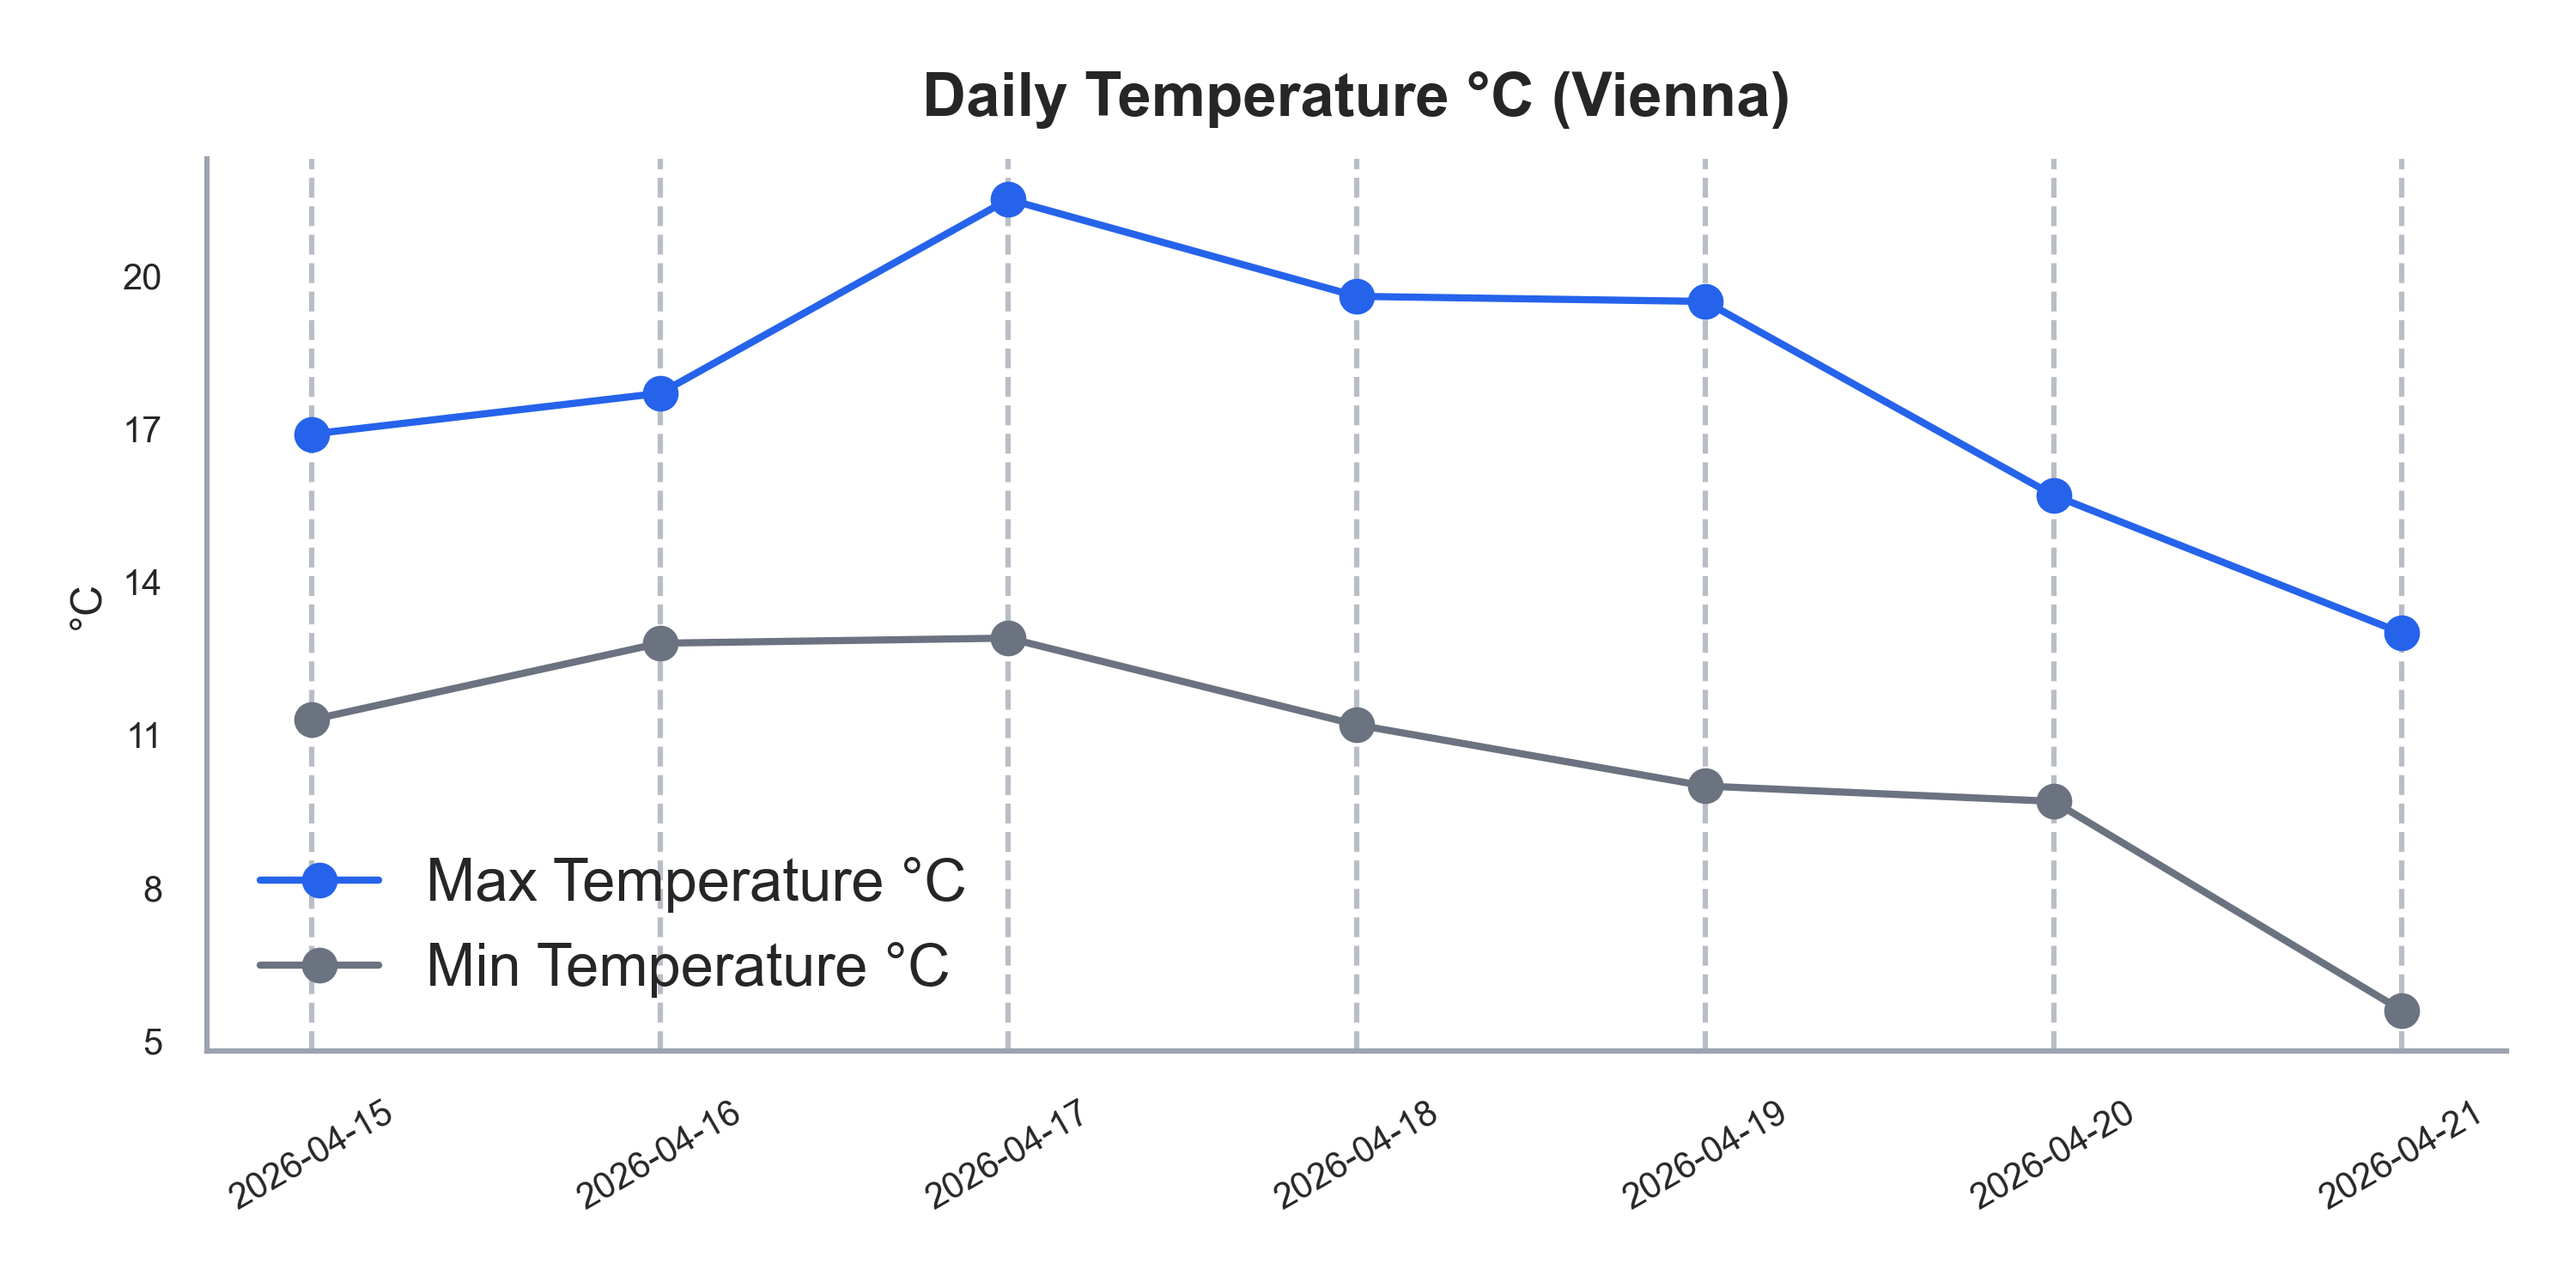
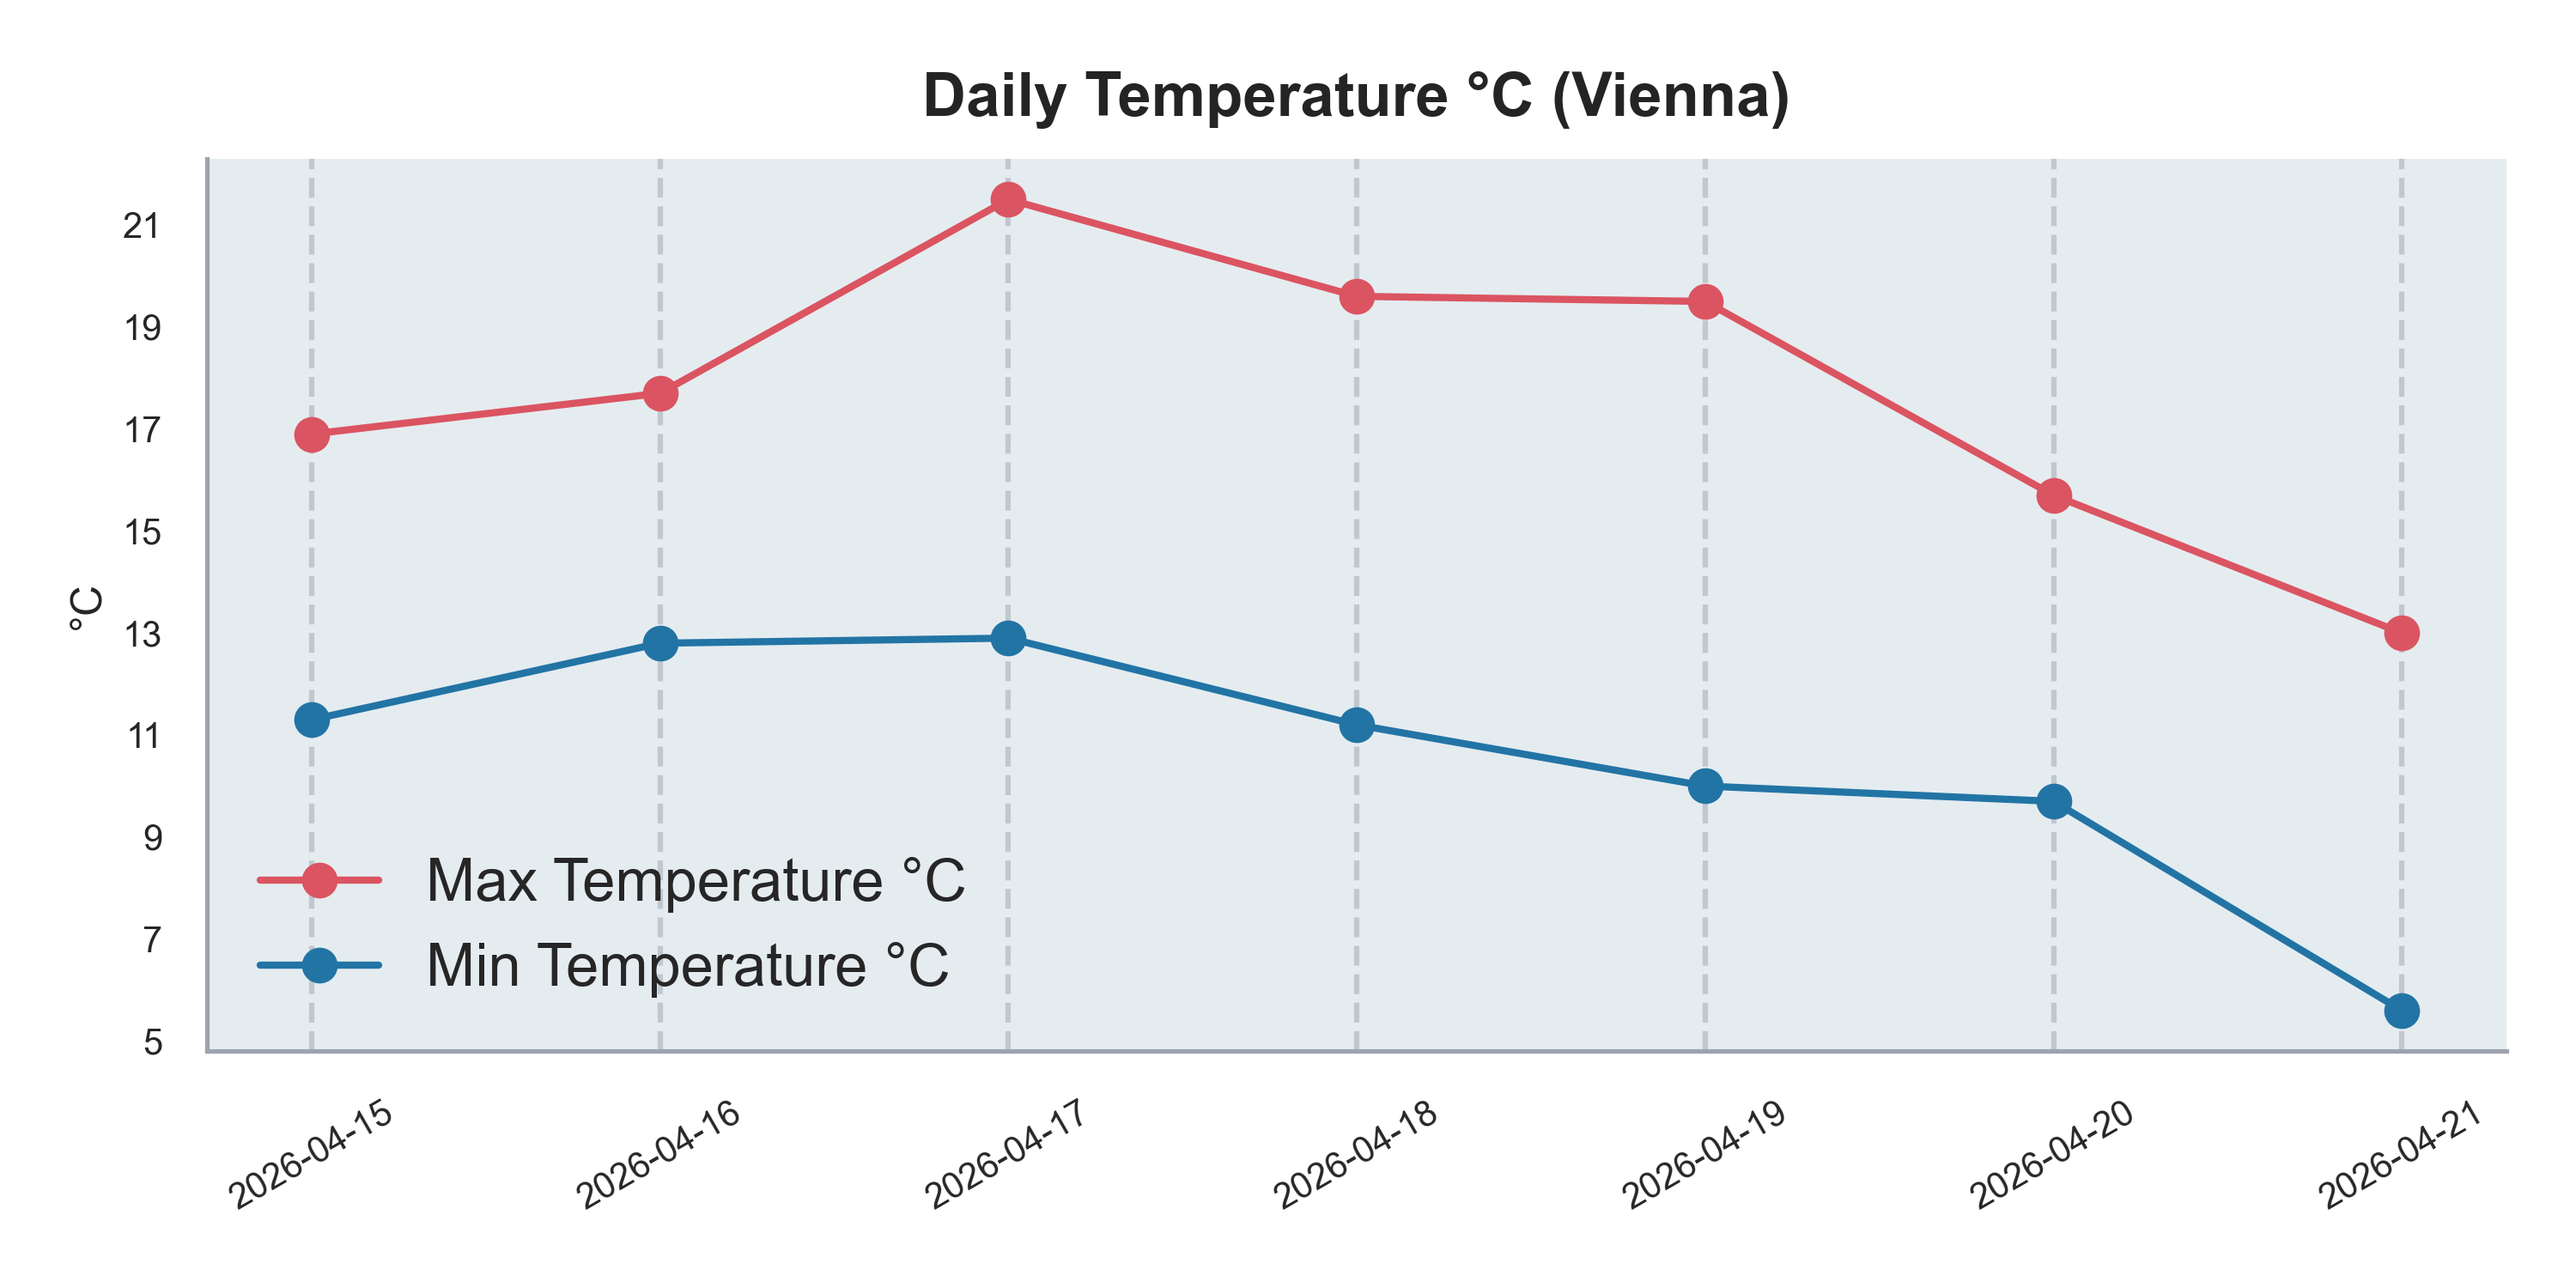
Refactor plot styles and update color scheme

diff --git a/src/visualization.py b/src/visualization.py
@@ -4,38 +4,56 @@ import seaborn as sns
 
 sns.set_theme(style="white", context="talk")
 COLORS = {
-    "primary": "#2563eb",    # blue
-    "secondary": "#f59e0b",  # amber/orange
-    "accent": "#dc2626",     # red
-    "neutral": "#6b7280",    # gray
-    "water": "#0ea5e9"       # cyan (for precipitation only)
+    "primary": "#DB5461",    
+    "secondary": "#2274A5",  
+    "tertiary": "#379392",    
+    "quaternary": "#003249",
+    "accent": "#DB5461", 
+    "fifth": "#DF928E"
 }
+
+def style_ax(ax):
+    # Background
+    ax.set_facecolor("#E5ECF0")  # Alice Blue
+
+    # Grid (subtle, vertical only)
+    ax.grid(True, axis="x", color="#9ca3af", linestyle="--", alpha=0.5)
+
+    # Customize spines
+    sns.despine(ax=ax, left=False, bottom=False)
+
+    for spine in ["left", "bottom", "right", "top"]:
+        ax.spines[spine].set_linewidth(1.25)
+        ax.spines[spine].set_color("#9ca3af")
+
+    # Tick styling
+    ax.tick_params(axis='x', labelsize=10, rotation=30)
+    ax.tick_params(axis='y', labelsize=10)
+
+    # Labels
+    ax.yaxis.label.set_color("#242424")
+    ax.xaxis.label.set_color("#242424")
+
+    # Title
+    ax.title.set_color("#242424")
 
 def plot_weather(df):
     fig, ax = plt.subplots(figsize=(10, 5))
 
     ax.plot(df["date_str"], df["temp_max"], label="Max Temperature °C", color=COLORS["primary"], marker='o', linewidth=2)
-    ax.plot(df["date_str"], df["temp_min"], label="Min Temperature °C", color=COLORS["neutral"], marker='o', linewidth=2)
+    ax.plot(df["date_str"], df["temp_min"], label="Min Temperature °C", color=COLORS["secondary"], marker='o', linewidth=2)
 
     ax.set_title("Daily Temperature °C (Vienna)", fontsize=17, pad=12, weight="bold")
     ax.set_ylabel("°C", fontsize=12)
 
     y_min = int(df["temp_min"].min())
     y_max = int(df["temp_max"].max())
-    ax.set_yticks(np.arange(y_min, y_max + 2, 3))
 
-    ax.tick_params(axis='x', labelsize=10, rotation=30)
-    ax.tick_params(axis='y', labelsize=10)
+    ax.set_yticks(np.arange(y_min, y_max + 2, 2))
 
     ax.legend(frameon=False)
 
-    sns.despine(ax=ax, left=False, bottom=False)
-
-    ax.grid(True, axis="x", color="#9ca3af", linestyle="--", alpha=0.7)
-    
-    for spine in ["left", "bottom", "right", "top"]:
-        ax.spines[spine].set_linewidth(1.5)
-        ax.spines[spine].set_color("#9ca3af")
+    style_ax(ax)
 
     plt.tight_layout()
     plt.savefig("outputs/weather_data.png", dpi=300)
@@ -47,7 +65,7 @@ def plot_precipitation(df):
 
     width = 0.35
 
-    ax.bar(df["date_str"], df["precipitation"], width, color=COLORS["water"])
+    ax.bar(df["date_str"], df["precipitation"], width, color=COLORS["secondary"])
 
     ax.set_title("Daily Precipitation (Vienna)", fontsize=17, pad=12, weight="bold")
     ax.set_ylabel("mm", fontsize=12)
@@ -56,16 +74,7 @@ def plot_precipitation(df):
 
     ax.set_yticks(np.arange(0, y_max + 1))
 
-    ax.tick_params(axis='x', labelsize=10, rotation=30)
-    ax.tick_params(axis='y', labelsize=10)
-
-    sns.despine(ax=ax, left=False, bottom=False)
-
-    ax.grid(True, axis="x", color="#9ca3af", linestyle="--", alpha=0.7)
-    
-    for spine in ["left", "bottom", "right", "top"]:
-        ax.spines[spine].set_linewidth(1.5)
-        ax.spines[spine].set_color("#9ca3af")
+    style_ax(ax)
 
     plt.tight_layout()
     plt.savefig("outputs/precipitation.png", dpi=300)
@@ -75,8 +84,8 @@ def plot_temperature_with_ma(df):
 
     fig, ax = plt.subplots(figsize=(10, 5))
 
-    ax.plot(df["date_str"], df["temp_avg"], label="Daily Average Temperature °C", color=COLORS["primary"], linewidth=2, marker='o')
-    ax.plot(df["date_str"], df["temp_ma"], label="Moving Average (2d)", color=COLORS["secondary"], linewidth=1, linestyle='--')
+    ax.plot(df["date_str"], df["temp_avg"], label="Daily Average Temperature °C", color=COLORS["quaternary"], linewidth=2.5, marker='o')
+    ax.plot(df["date_str"], df["temp_ma"], label="Moving Average (2d)", color=COLORS["tertiary"], linewidth=1.5, linestyle='--')
 
     anomalies = df[df["anomaly"]]
 
@@ -95,19 +104,10 @@ def plot_temperature_with_ma(df):
     y_max = int(df["temp_avg"].max())
 
     ax.set_yticks(np.arange(y_min, y_max + 2))
-    
-    ax.tick_params(axis='x', labelsize=10, rotation=30)
-    ax.tick_params(axis='y', labelsize=10)
 
     ax.legend(frameon=False)
     
-    sns.despine(ax=ax, left=False, bottom=False)
-
-    ax.grid(True, axis="x", color="#9ca3af", linestyle="--", alpha=0.7)
-    
-    for spine in ["left", "bottom", "right", "top"]:
-        ax.spines[spine].set_linewidth(1.5)
-        ax.spines[spine].set_color("#9ca3af")
+    style_ax(ax)
 
     plt.tight_layout()
     plt.savefig("outputs/temp_trend.png", dpi=300)

diff --git a/main.py b/main.py
@@ -1,7 +1,6 @@
 from src.extract import fetch_weather_data, parse_weather_data
 from src.transform import calculate_average_temp, find_hottest_day, find_coldest_day, add_moving_average, detect_anomalies, export_results
 from src.visualization import plot_weather, plot_precipitation, plot_temperature_with_ma
-import matplotlib.pyplot as plt
 
 
 def main():
